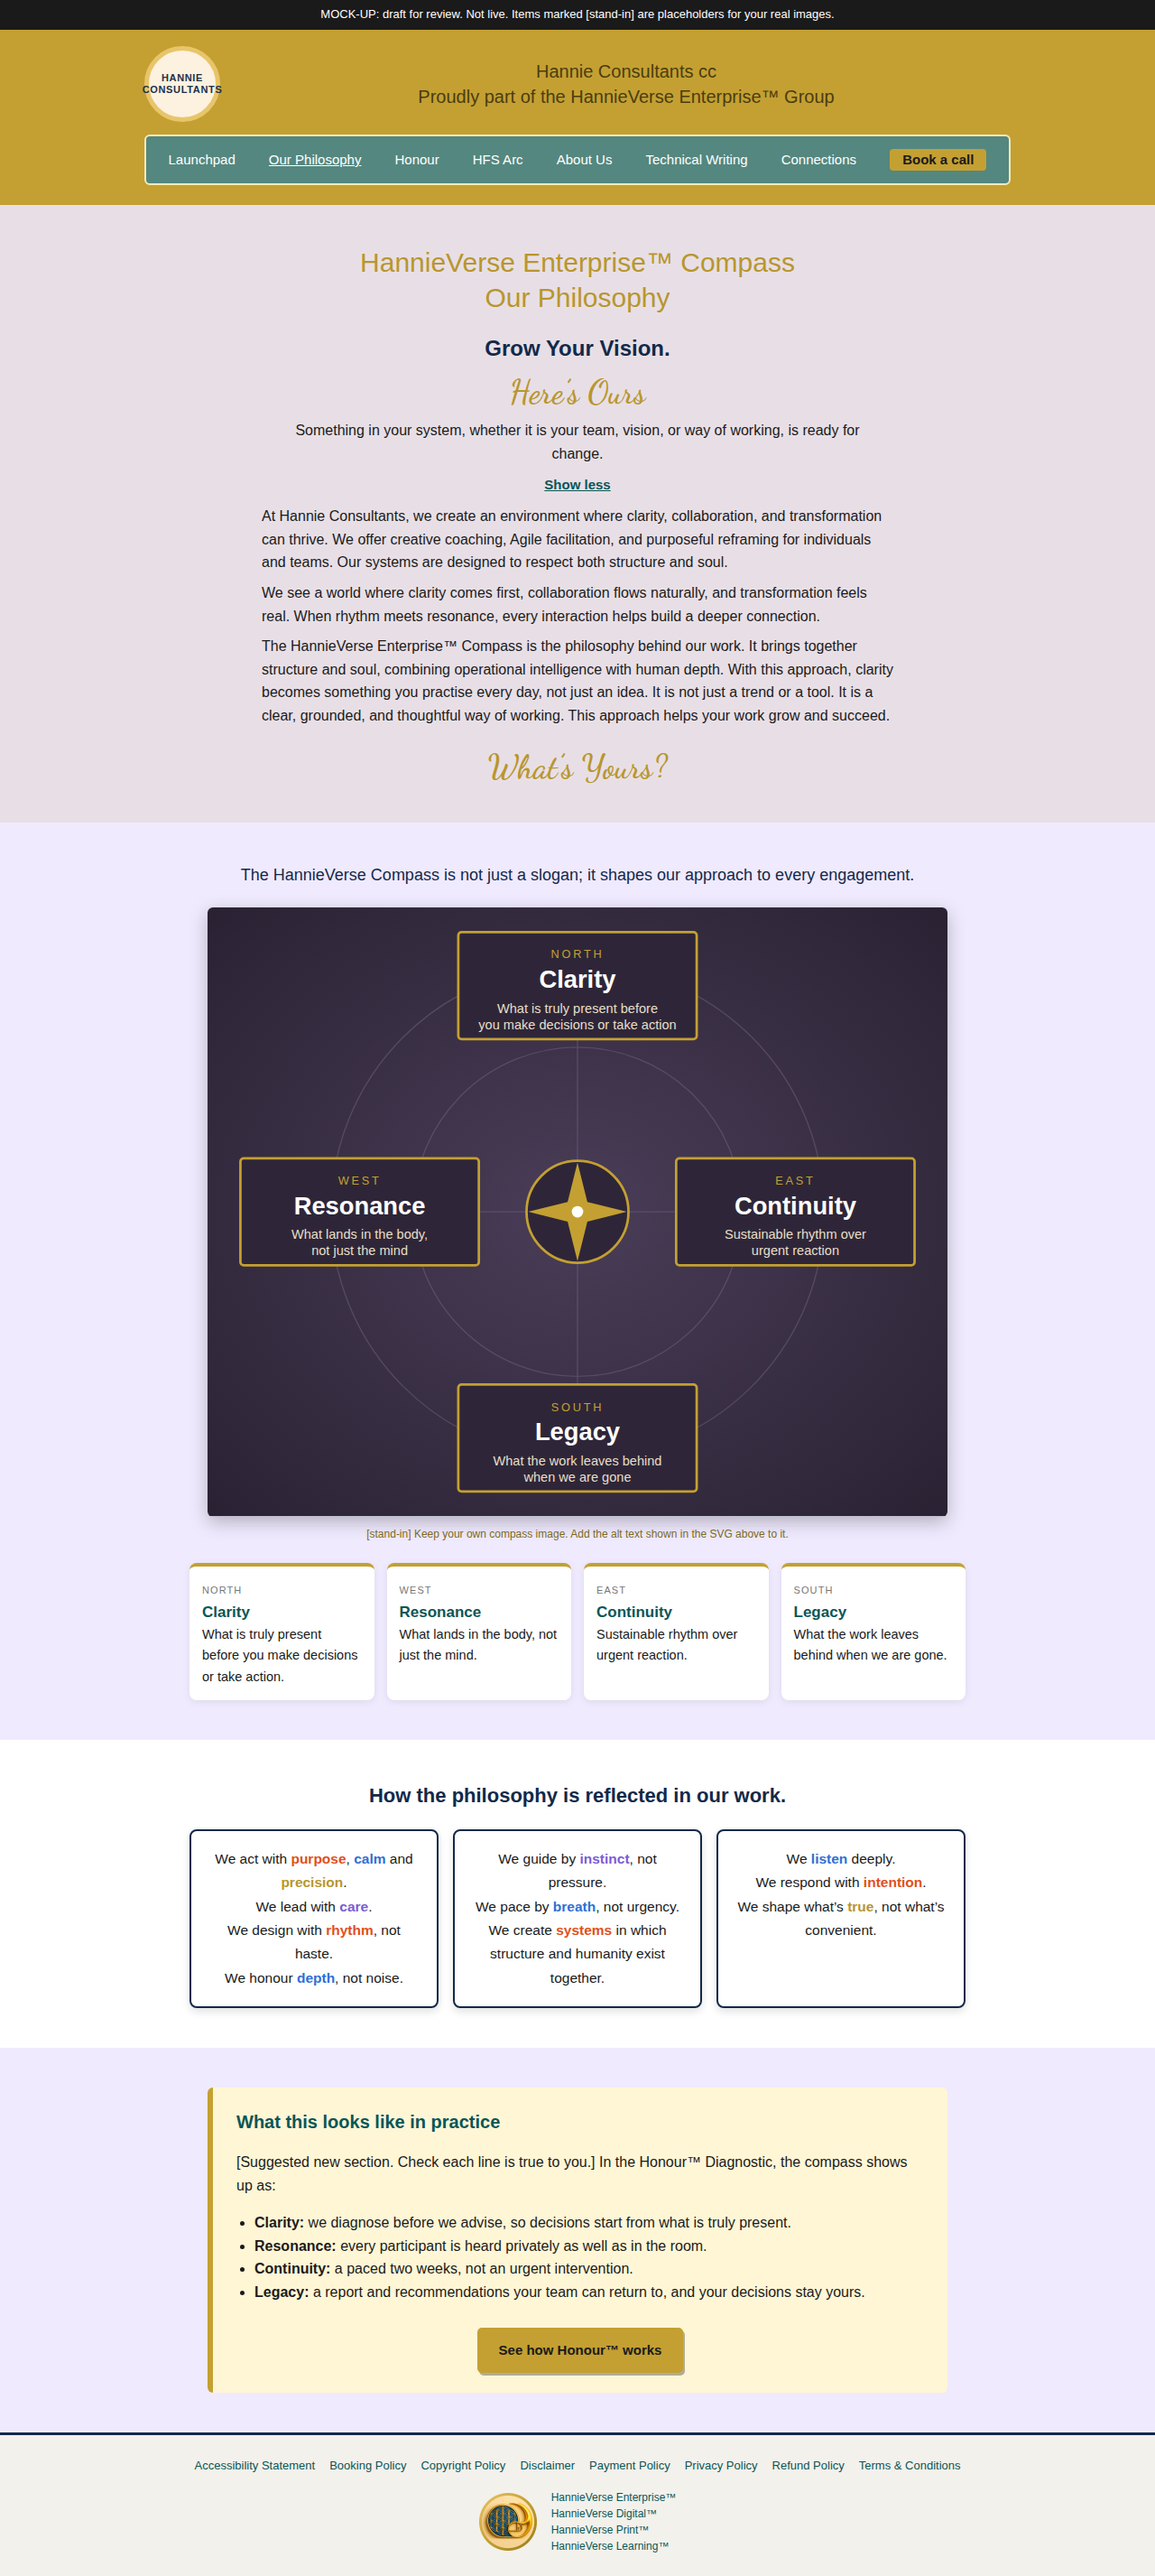
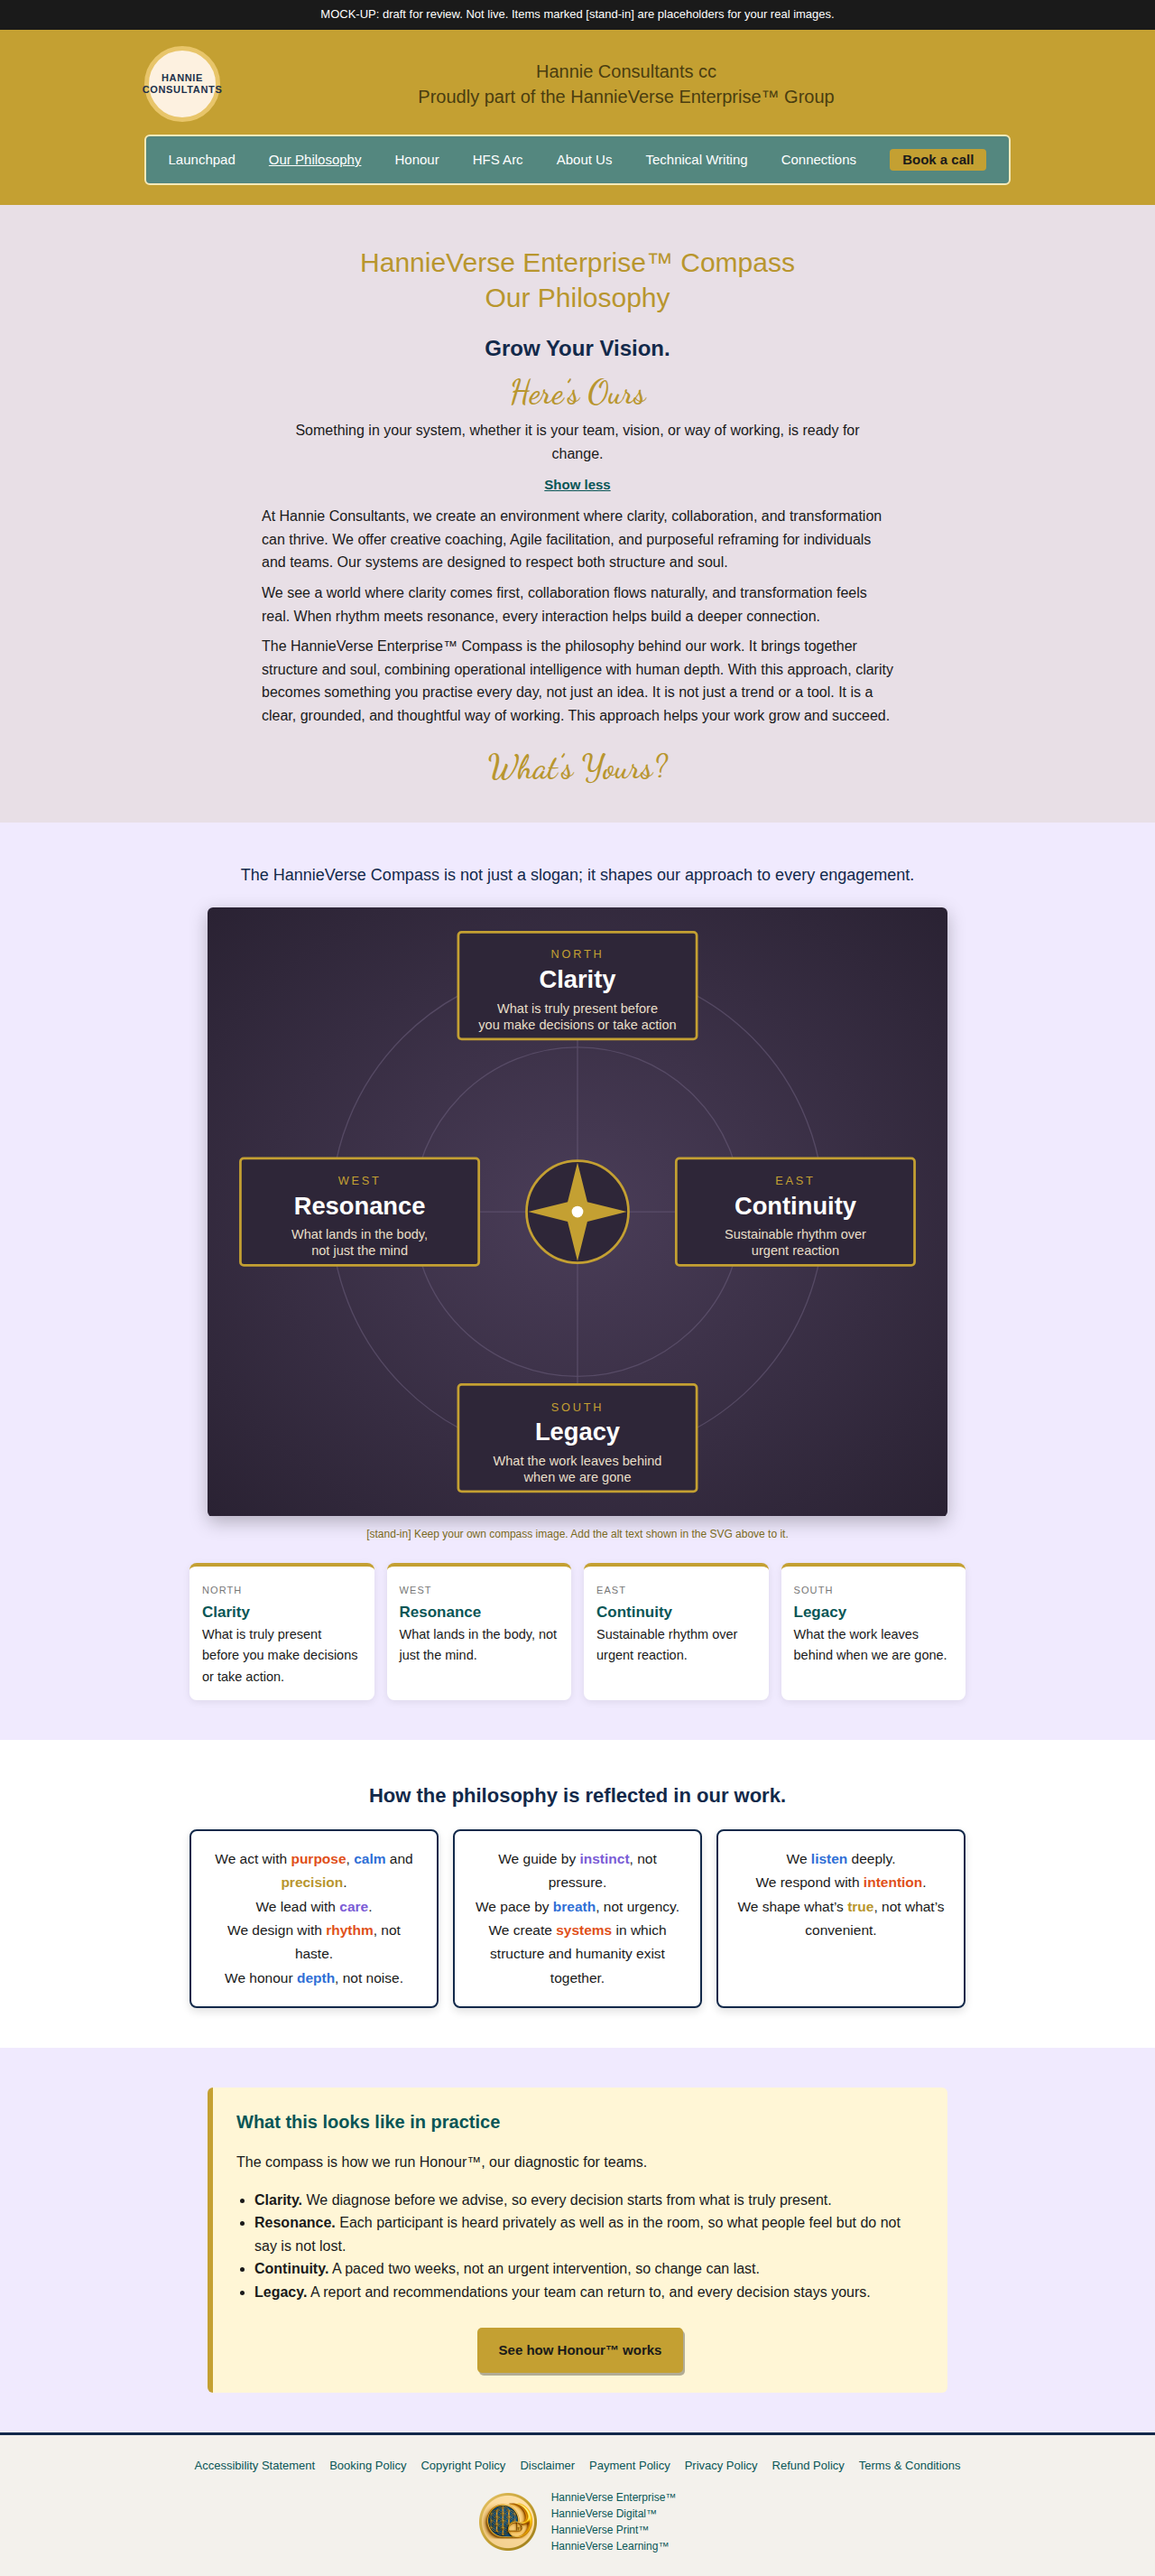
Finalise Philosophy 'in practice' wording
Claude-Session: https://claude.ai/code/session_01VGNF22YqMhet38GotcC9rv

Changed region(s): [[0.2188, 0.8423, 0.7188, 0.9047]]

diff --git a/qa/philosophy/philosophy-mockup.html b/qa/philosophy/philosophy-mockup.html
@@ -105,12 +105,12 @@ footer a{color:var(--teal-d);margin:0 8px;text-decoration:none;display:inline-bl
 <section class="lav"><div class="wrap">
   <div class="practice">
     <h3>What this looks like in practice</h3>
-    <p>[Suggested new section. Check each line is true to you.] In the Honour&trade; Diagnostic, the compass shows up as:</p>
+    <p>The compass is how we run Honour&trade;, our diagnostic for teams.</p>
     <ul>
-      <li><b>Clarity:</b> we diagnose before we advise, so decisions start from what is truly present.</li>
-      <li><b>Resonance:</b> every participant is heard privately as well as in the room.</li>
-      <li><b>Continuity:</b> a paced two weeks, not an urgent intervention.</li>
-      <li><b>Legacy:</b> a report and recommendations your team can return to, and your decisions stay yours.</li>
+      <li><b>Clarity.</b> We diagnose before we advise, so every decision starts from what is truly present.</li>
+      <li><b>Resonance.</b> Each participant is heard privately as well as in the room, so what people feel but do not say is not lost.</li>
+      <li><b>Continuity.</b> A paced two weeks, not an urgent intervention, so change can last.</li>
+      <li><b>Legacy.</b> A report and recommendations your team can return to, and every decision stays yours.</li>
     </ul>
     <div class="btns"><a class="btn" href="#">See how Honour&trade; works</a></div>
   </div>
